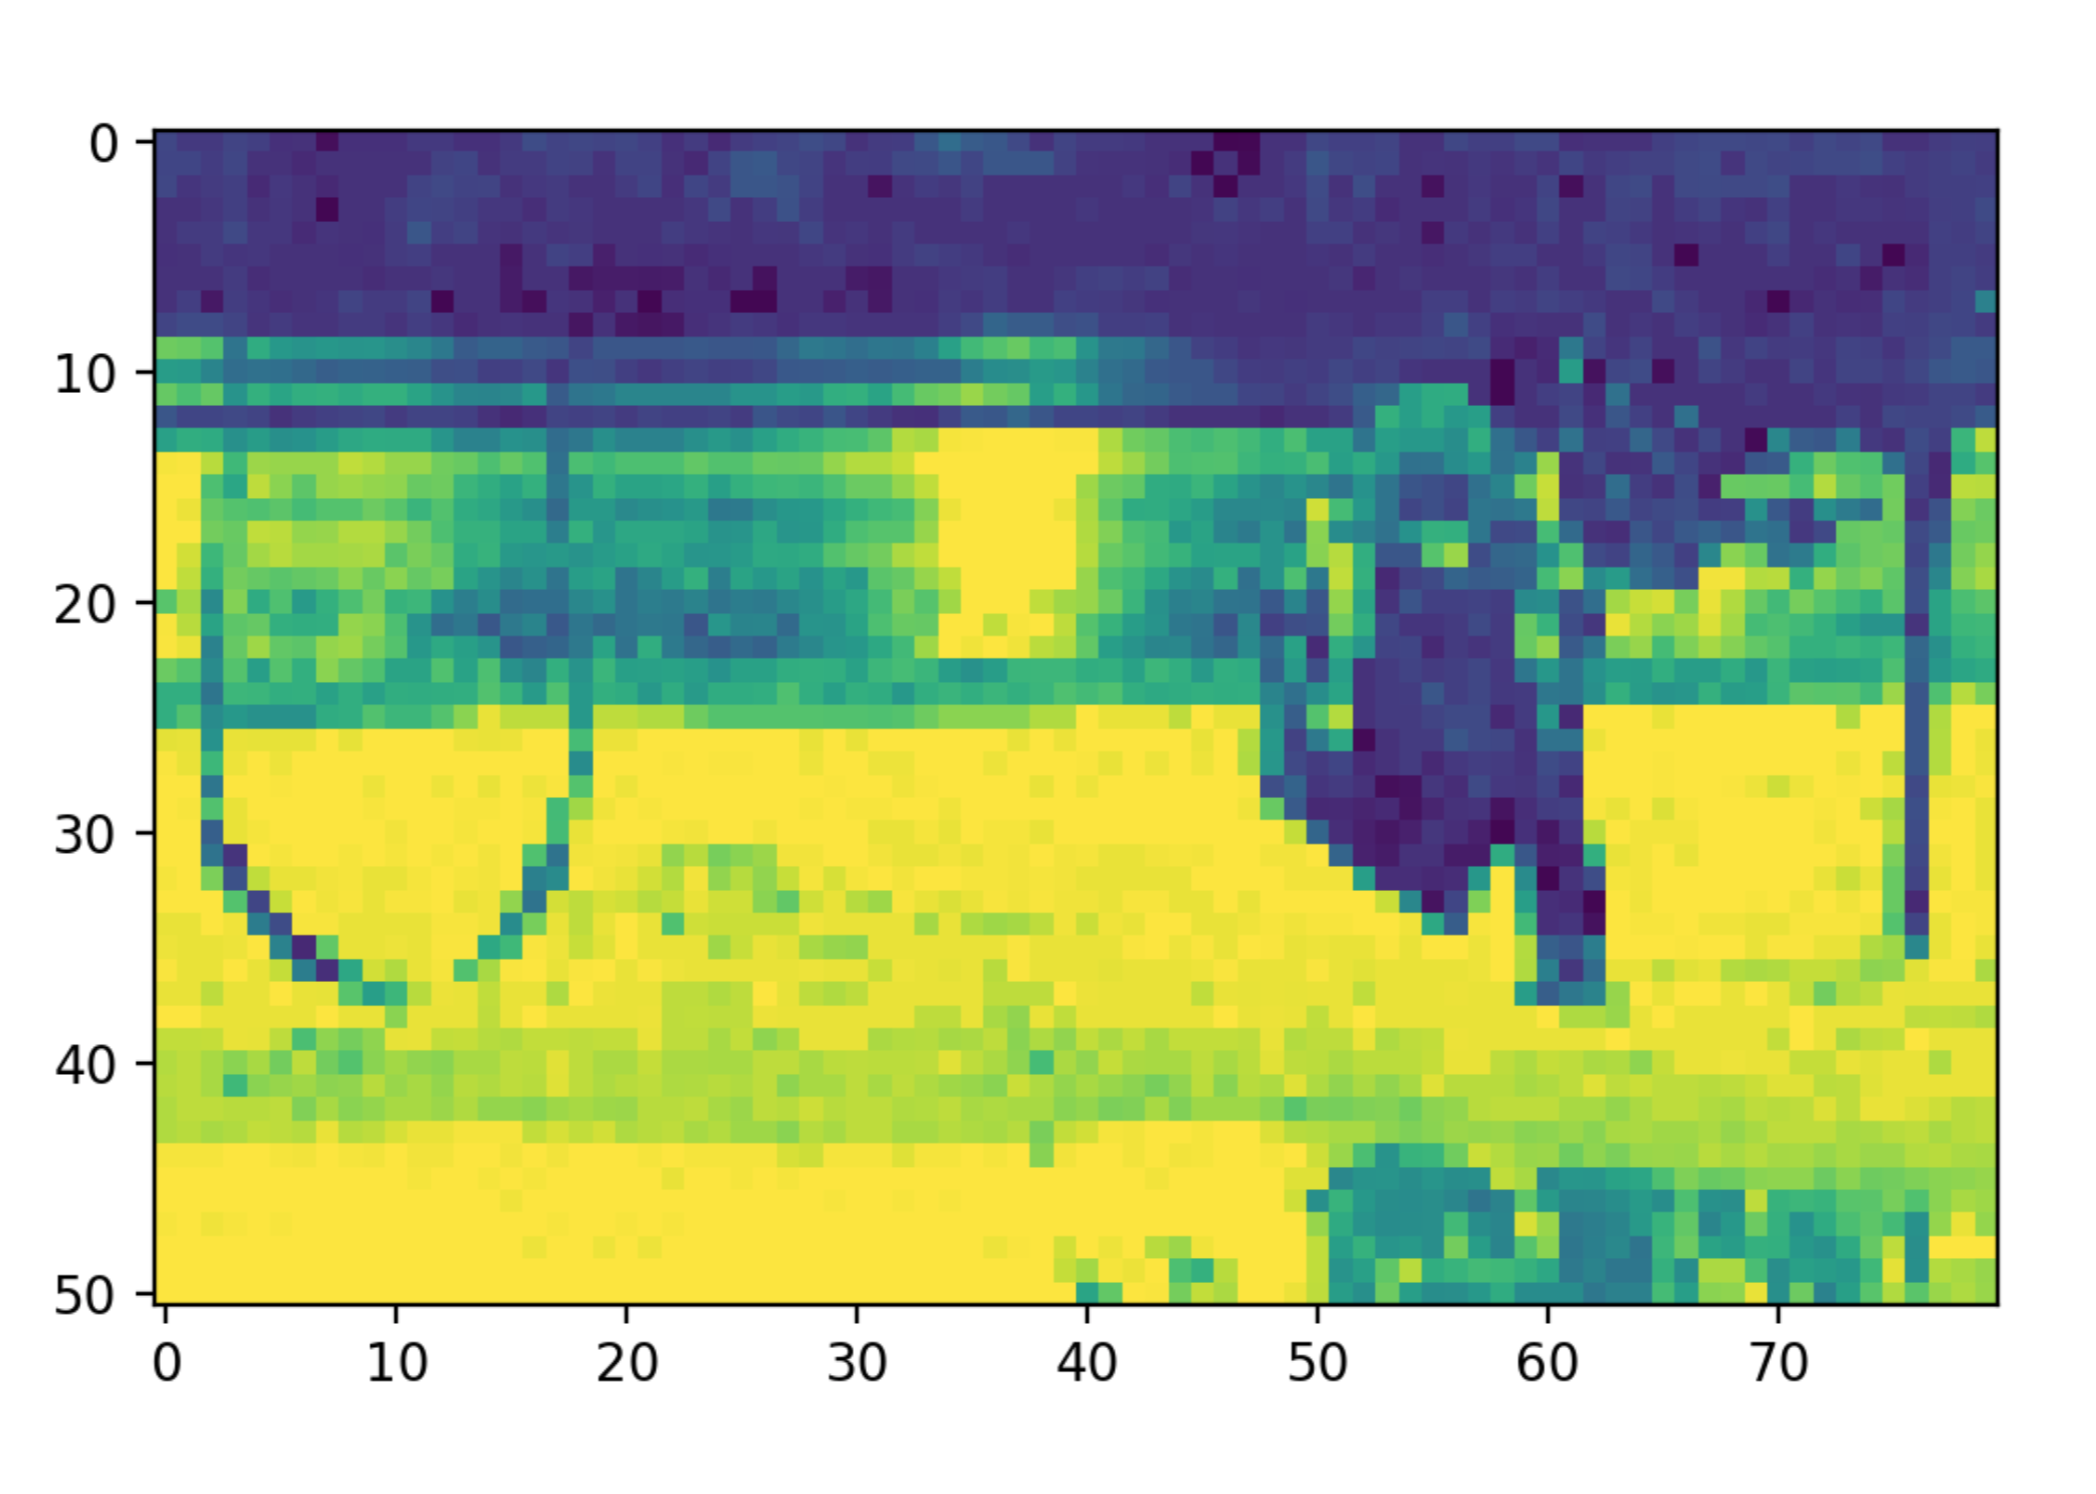
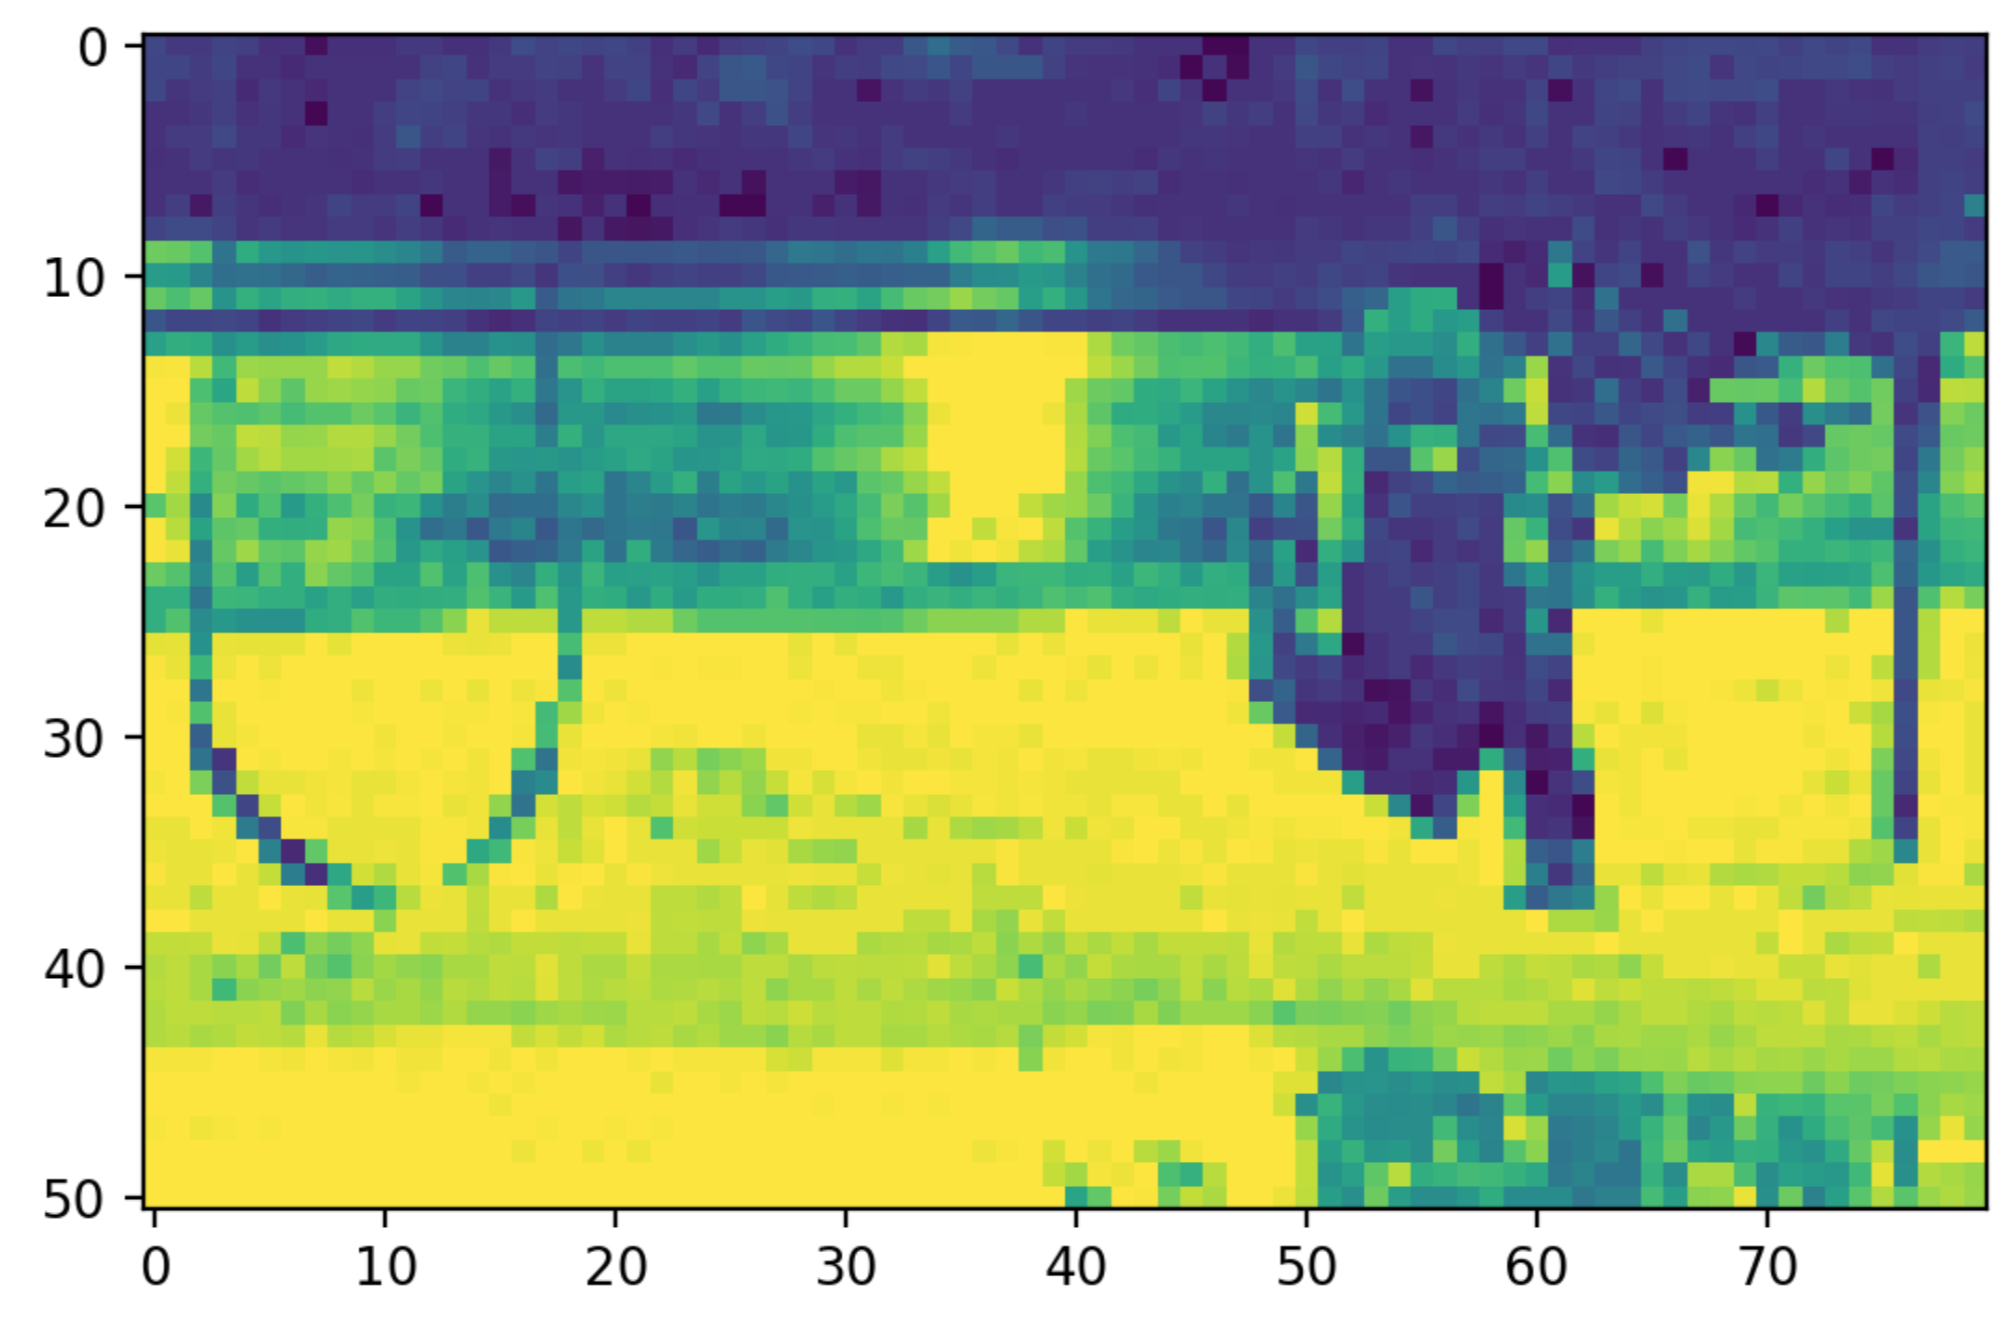
Add existing

diff --git a/researchproject.html b/researchproject.html
@@ -43,7 +43,7 @@
   while IMMIGRATE outperforms in most times.</li>
   <li>Complete the R package for IMMIGRATE, imIM4E and some other margin-based methods.</li>
 </ul>
-For more details, see arXiv. For details about R package "Immigrate", see CRAN.
+For more details, see [<a href="https://arxiv.org/abs/1810.02658">arXiv</a>]. For details about R package "Immigrate", see [<a href="https://cran.r-project.org/web/packages/Immigrate/">CRAN</a>].
 </ul>
 <h2>Change Comparison for Image Sequence</h2>
 <ul>
@@ -57,25 +57,26 @@ For more details, see arXiv. For details about R package "Immigrate", see CRAN.
   <li>Proposed CCUC method applying uncertainty coefficient to compare change between image sequences.</li>
   <li>Implemented CCUC on comparable image sequences and showed it is applicable in real situation.</li>
 </ul>
-For more details, see arXiv.
+For more details, see [<a href="https://arxiv.org/abs/1810.02658">arXiv</a>].
 </ul>
 
-<h2>Linear Regression with AR$(\infty)$ Errors with Coefficients Constrained in an Ellipsoid</h2>
+<h2>Linear Regression with AR(∞) Errors with Coefficients Constrained in an Ellipsoid</h2>
 <ul>
 <p>Tsinghua University, Beijing, China. 2017.11 - 2018.05.</p>
 <p>Center for Statistical Science</p>
 <p>Advisor: Prof. Dong Li</p>
 <table class="imgtable"><tr><td>
-<img src="p2.png" width="324.8px" height="228px" />&nbsp;</td>
+<img src="p4.png" width="324.8px" height="107px" />&nbsp;</td>
 </td></tr></table>
 <ul style="list-style-type:circle">
   <li>Applied maximum a posterior estimation to obtain the estimation of regression coefficient <br />
-  and coefficients of AR$(\infty)$ errors.</li>
-  <li>Computed an upper bound for convergence rate of the coefficients of AR$(\infty)$ errors <br />
+  and coefficients of AR(∞) errors.</li>
+  <li>Computed an upper bound for convergence rate of the coefficients of AR(∞) errors <br />
   under elliptical constraint. </li>
   <li>Applied constrained estimator under euclidean norm to evaluate consistency results.</li>
+  <li>Ran simulation to show the robustness of the new estimation.</li>
 </ul>
-For more details, see Manuscript.
+For more details, see [<a href="WithDong.pdf">Manuscript</a>].
 </ul>
 
 
@@ -85,7 +86,7 @@ For more details, see Manuscript.
 <p>Department of Mathematical Science</p>
 <p>Advisor: Prof. Lijun Yang</p>
 <table class="imgtable"><tr><td>
-<img src="p2.png" width="324.8px" height="228px" />&nbsp;</td>
+<img src="p5.png" width="324.8px" height="228px" />&nbsp;</td>
 </td></tr></table>
 <ul style="list-style-type:circle">
   <li>Developed an innovative infectious model including people carrying pathogen as new research <br /> subject when analyzing distribution channel and analyzed the stability of equilibriums by <br />Liapunov function.
@@ -95,7 +96,7 @@ For more details, see Manuscript.
   impulsive inoculation.</li>
   <li>Simulated models under different conditions, which supports the stability analysis well. </li>
 </ul>
-For more details, see PDF and PDF.
+For more details, see [<a href="Modelling_of_the_HFMD_with_the_Carrier_Population.pdf">PDF</a>] for SIRC Model and [<a href="Protective_Quarantine_Model_of_HFMD.pdf">PDF</a>] for Protective Quarantine Model.
 </ul>
 
 
